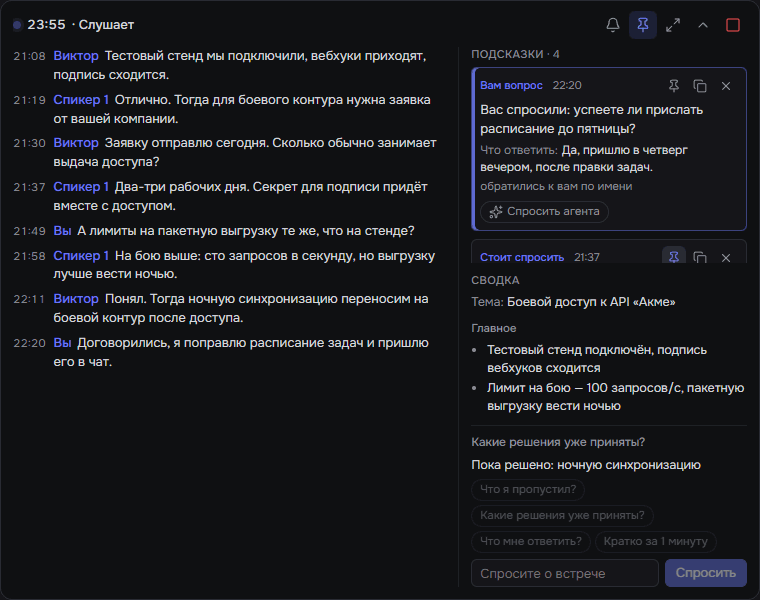
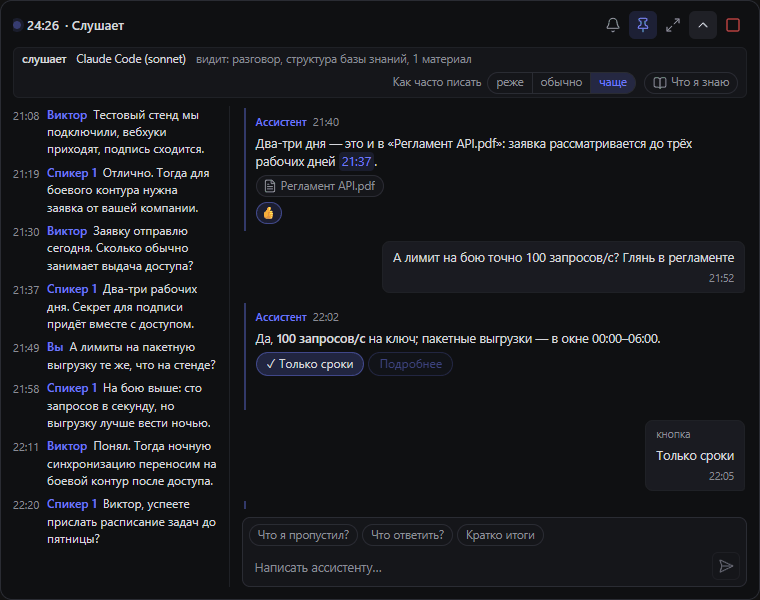
Docs: after-chat review wording; new live panel screenshots
Release notes and README take the review's replacement text: «Только
сводка» warning, after-meeting tab details (quick questions, attachments,
buttons, reactions, Стоп, read-only with the participant off), old
meetings' hints only, source chips, where exclusions are set, the group KB
folder, «карта», «Показать более ранние сообщения». docs/images
live-panel.png and live-collapsed.png are retaken from the chat panel on a
scratch page with invented data (same sizes).

Claude-Session: https://claude.ai/code/session_019KDoRnX81D3znygCM8jGgh

diff --git a/docs/release-notes/v0.3.6.md b/docs/release-notes/v0.3.6.md
@@ -27,10 +27,13 @@
   - Таймкод в сообщении переводит к этому месту расшифровки, сообщение
     копируется в один клик.
   - В шапке видно модель, что она видит («разговор, структура базы знаний,
-    2 материала») и что ассистент делает сейчас: слушает, думает или пишет.
+    2 материала»; если в карте только прошлые встречи группы — «карта») и
+    что ассистент делает сейчас: слушает, думает или пишет.
     Сводка встречи, которую он ведёт по ходу, — в «Что я знаю».
   - Свёрнутая панель показывает последнее сообщение ассистента или
     закреплённый вопрос вам и число новых сообщений.
+  - В долгой встрече после переподключения лента показывает последние 200
+    сообщений; «Показать более ранние сообщения» дочитывает остальные.
 - **Кнопки под ситуацию.** Под сообщением ассистент сам ставит до трёх
   кнопок: «Глянь», «Только сроки», «Не надо». Нажатие — ваш ответ ему этими
   словами, набирать ничего не нужно.
@@ -50,6 +53,12 @@
   - Изображения (до 10 МБ) видят только Claude Code и Codex. OpenCode и
     локальная модель изображений не видят: у вложения будет пометка «Модель
     не видит изображения», уходит только текст сообщения.
+- **Источники.** Если ассистент назвал приложенный файл или документ базы
+  знаний — по имени с расширением или по пути в базе, — под сообщением
+  появляется чип: щелчок открывает документ в программе по умолчанию. Файл,
+  приложенный не из базы знаний и не из папки записей, открывается текстом,
+  который из него извлёк Meet. Программы, скрипты, ярлыки и веб-страницы так
+  не открываются.
 - **Карта базы знаний и прошлых встреч.** С начала встречи ассистент
   получает карту: названия папок и документов базы знаний (если в настройках
   задана её папка) и список прошлых встреч группы (если встреча в группе), без
@@ -64,12 +73,15 @@
   - Карту можно выключить: «Показывать ассистенту карту: базу знаний и
     прошлые встречи группы». Тогда модели не уходят ни названия документов,
     ни список прошлых встреч.
-  - **Папка базы знаний у группы.** В меню группы «Папка базы знаний…»: на
-    встречах группы эта папка попадает в карту целиком.
-- **Исключения.** Папки базы, которых нет в карте, задаются в настройках;
+  - **Папка базы знаний у группы.** В меню группы «Папка базы знаний…» (там
+    же — «Убрать папку базы знаний»): на встречах группы эта папка попадает
+    в карту целиком. Заданная папка видна в заголовке группы над списком.
+- **Исключения.** Папки базы, которых нет в карте, задаются в «Настройки →
+  Ассистент» — «Не показывать ассистенту»;
   по умолчанию это `Личное/` и `.trash/`. Технический запрет на чтение там
   есть только у Claude Code — в настройках его сеанса. Для Codex и OpenCode
-  это просьба в инструкции, о чём говорит пометка в шапке чата.
+  это просьба в инструкции, о чём говорит пометка в шапке чата и в
+  настройках.
 - **Одна сессия на встречу.** Ассистент помнит всю встречу и всю переписку.
   Если его выключили и включили снова или он перезапустился, Claude Code и
   Codex продолжают тот же свой сеанс (у OpenCode продолжение тоже
@@ -77,6 +89,14 @@
 - **«Продолжить разговор» после встречи.** В карточке встречи появилась
   вкладка «Ассистент» (между «Итоги» и «Агент»): там весь чат встречи и поле
   ввода.
+  - Над пустым полем — быстрые вопросы «Кратко итоги», «Какие решения
+    приняли?», «Что мне сделать?».
+  - Файл или скриншот прикладывается так же, как во время встречи: Ctrl+V,
+    перетаскивание, «📎»; «×» убирает его до отправки.
+  - Кнопки ассистента и реакции работают и после встречи; «Стоп» снимает
+    задачу ответа.
+  - Если «Ассистент — участник встречи» выключен, вкладка показывает
+    прежний чат только для чтения.
   - Можно попросить письмо по итогам, уточнить, кто что обещал, или
     приложить новый файл.
   - Ответ готовит фоновая задача, её ход виден в карточке. Ассистент
@@ -95,10 +115,12 @@
   вариантом. Чтобы вернуть его, выключите «Ассистент — участник встречи» в
   «Настройки → Ассистент → Живой ассистент». Прежний режим останется ещё
   на время как запасной; если без него что-то не получается, напишите нам.
-- Если в настройках выбрано «Только сводка», ассистент по-прежнему ничего
-  не пишет вам во время встречи и только ведёт сводку. Активность
-  «Сдержанно» и «Активно» относится к прежнему режиму, у нового — «Как
-  часто писать».
+- Если в настройках осталась «Только сводка» прежнего режима, ассистент во
+  время встречи ничего не пишет вам и только ведёт сводку. В «Настройки →
+  Ассистент» об этом говорит предупреждение с кнопкой «Вернуть чат».
+  Активность, модель подсказок и число подсказок относятся к прежнему
+  режиму и видны, только когда «Ассистент — участник встречи» выключен; у
+  нового — «Как часто писать».
 - **Приватность: карта.** В начале каждой встречи с ассистентом модель
   получает названия папок и документов базы знаний (если задана её папка) и
   список прошлых встреч группы (если встреча в группе). Раньше модели уходили
@@ -114,6 +136,6 @@
   без этого нельзя продолжить разговор. При удалении записи он не
   удаляется. Раньше из автоматической работы Meet так хранился только
   разговор «Спросить» у Claude Code.
-- **Старые встречи.** Подсказки встреч, записанных до 0.3.6, видны на
-  вкладке «Ассистент» только для чтения. Прежние вопросы `meet ask` — как
-  раньше, на вкладке «Агент».
+- **Старые встречи.** Подсказки встреч, записанных до 0.3.6 или в прежнем
+  режиме, видны на вкладке «Ассистент» только для чтения. Прежние вопросы
+  `meet ask` — как раньше, на вкладке «Агент».
